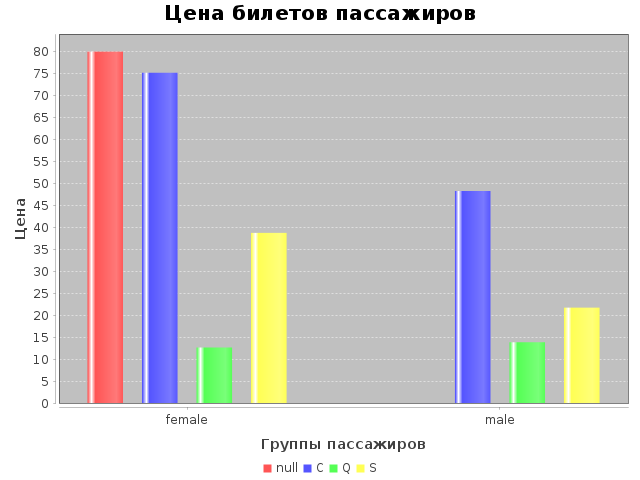
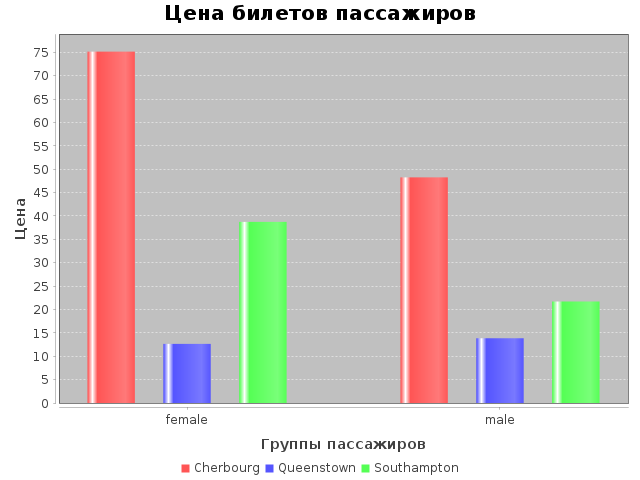
All tasks

diff --git a/src/main/java/Main.java b/src/main/java/Main.java
@@ -1,7 +1,7 @@
-import abstractions.DBWorker;
 import models.FirstTaskModel_avg;
-import models.FirstTaskModel_sum;
 import models.PassengerModel;
+import models.SecondTask;
+import models.ThirdTask;
 import org.jfree.chart.ChartFactory;
 import org.jfree.chart.ChartUtils;
 import org.jfree.chart.plot.PlotOrientation;
@@ -13,7 +13,6 @@ import utils.db.SqliteDBWorker;
 import java.io.File;
 import java.io.IOException;
 import java.nio.file.Path;
-import java.util.List;
 
 public class Main {
     private static final String tableName = "Passengers";
@@ -26,29 +25,37 @@ public class Main {
         dbWorker.configureDB(tableName, new PassengerModel(), "PassengerId");
         dbWorker.addModels(tableName, models);
         var dbModels = dbWorker.getAllModels(null, new PassengerModel());
-        task1(dbWorker);
+        task1();
+        task2();
+        task3();
     }
 
-    public static void task1(DBWorker dbWorker){
+    public static void task1(){
+        var dbWorker = SqliteDBWorker.getInstance();
         var sqlConstructor = new QueryConstructor();
-        var queryWithAvg = sqlConstructor
+        var query = sqlConstructor
                 .select(new String[]{"sex", "embarked", "avg(fare) AS avg"}, tableName)
+                .where("embarked is not null")
                 .groupBy(new String[]{"embarked", "sex"})
                 .buildQuery();
-        var variantWithAvg = dbWorker.executeSqlQuery(queryWithAvg, new FirstTaskModel_avg());
+        var variantWithAvg = dbWorker.executeSqlQuery(query, new FirstTaskModel_avg()).stream()
+                .map(model -> {
+                    var fmodel = (FirstTaskModel_avg) model;
+                    fmodel.embarked = fmodel.embarked.equals("S")
+                            ? "Southampton"
+                            : fmodel.embarked.equals("C")
+                                ? "Cherbourg"
+                                : "Queenstown";
+                    return fmodel;
+                })
+                .toList();
 
-        var queryWithSum = sqlConstructor
-                .select(new String[]{"sex", "embarked", "sum(fare) as sum"}, tableName)
-                .groupBy(new String[]{"embarked", "sex"})
-                .buildQuery();
-        var variantWithSum = dbWorker.executeSqlQuery(queryWithSum, new FirstTaskModel_sum());
         var dataset = new DefaultCategoryDataset();
-        for (var model : variantWithSum){
-            var firstTaskModel_sum = (FirstTaskModel_sum) model;
+        for (var model : variantWithAvg){
             dataset.addValue(
-                    firstTaskModel_sum.sum,
-                    firstTaskModel_sum.embarked == null ? "null" : firstTaskModel_sum.embarked,
-                    firstTaskModel_sum.sex == null ? "null" : firstTaskModel_sum.sex
+                    model.avg,
+                    model.embarked == null ? "null" : model.embarked,
+                    model.sex == null ? "null" : model.sex
             );
         }
         var barChart = ChartFactory.createBarChart(
@@ -59,31 +66,36 @@ public class Main {
                 PlotOrientation.VERTICAL,
                 true, true, false);
         try {
-            ChartUtils.saveChartAsPNG(new File("task_1_sum.png"), barChart, 640, 480);
-        } catch (IOException e) {
-            e.printStackTrace();
-        }
-
-        dataset = new DefaultCategoryDataset();
-        for (var model : variantWithAvg){
-            var firstTaskModel_avg = (FirstTaskModel_avg) model;
-            dataset.addValue(
-                    firstTaskModel_avg.avg,
-                    firstTaskModel_avg.embarked == null ? "null" : firstTaskModel_avg.embarked,
-                    firstTaskModel_avg.sex == null ? "null" : firstTaskModel_avg.sex
-            );
-        }
-        barChart = ChartFactory.createBarChart(
-                "Цена билетов пассажиров",
-                "Группы пассажиров",
-                "Цена",
-                dataset,
-                PlotOrientation.VERTICAL,
-                true, true, false);
-        try {
             ChartUtils.saveChartAsPNG(new File("task_1_avg.png"), barChart, 640, 480);
         } catch (IOException e) {
             e.printStackTrace();
+        }
+    }
+
+    public static void task2(){
+        var dbWorker = SqliteDBWorker.getInstance();
+        var sqlConstructor = new QueryConstructor();
+        var query = sqlConstructor
+                .select(new String[]{"max(fare) - min(fare) as 'diff'"}, tableName)
+                .where("sex = 'female' and age between 15 and 30")
+                .buildQuery();
+        var result = dbWorker.executeSqlQuery(query, new SecondTask());
+        var model = (SecondTask) result.get(0);
+        System.out.format("Разница между максимальной и минимальной ценой билета у женщин от 15 до 30 лет: %f\n", model.diff);
+    }
+
+    public static void task3(){
+        var dbWorker = SqliteDBWorker.getInstance();
+        var sqlConstructor = new QueryConstructor();
+        var query = sqlConstructor
+                .select(new String[]{"ticket"}, tableName)
+                .where("(sex = 'male' and age between 45 and 60) or (sex = 'female' and age between 20 and 25)")
+                .buildQuery();
+        var result = dbWorker.executeSqlQuery(query, new ThirdTask());
+        System.out.println("Список билетов, мужчин в возрасте от 45 до 60 и женщин от 20 до 25.");
+        for (var m : result){
+            var model = (ThirdTask) m;
+            System.out.println(model.ticket);
         }
     }
 }

diff --git a/src/main/java/utils/db/Query.java b/src/main/java/utils/db/Query.java
@@ -10,16 +10,17 @@ public class Query {
     public Query where(String predicate){ //TODO: переделать на FunctionalInterface
         if (predicate == null)
             return this;
-        builder.append(String.format(" WHERE %s;", predicate));
+        builder.append(String.format(" WHERE %s", predicate));
         return this;
     }
 
     public Query groupBy (String[] fields){
-        builder.append(String.format(" GROUP BY %s;", String.join(", ", fields)));
+
+        builder.append(String.format(" GROUP BY %s", String.join(", ", fields)));
         return this;
     }
 
     public String buildQuery(){
-        return builder.toString();
+        return builder.toString() + ';';
     }
 }

diff --git a/src/main/java/models/ThirdTask.java b/src/main/java/models/ThirdTask.java
@@ -1,0 +1,7 @@
+package models;
+
+import abstractions.Model;
+
+public class ThirdTask implements Model {
+    public String ticket;
+}

diff --git a/src/main/java/models/SecondTask.java b/src/main/java/models/SecondTask.java
@@ -1,0 +1,7 @@
+package models;
+
+import abstractions.Model;
+
+public class SecondTask implements Model {
+    public float diff;
+}
